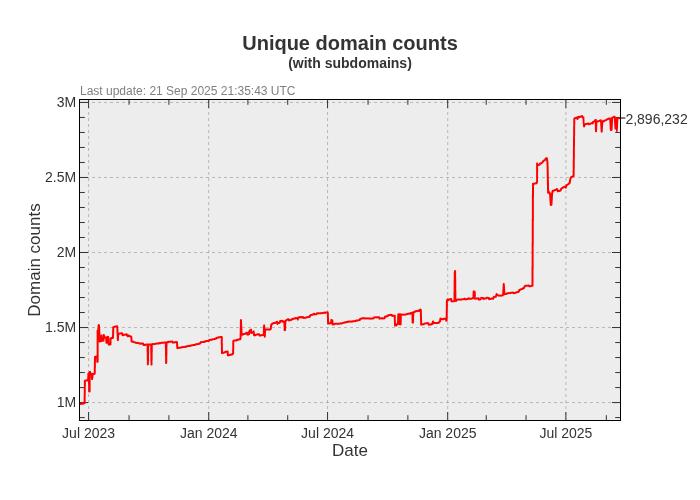
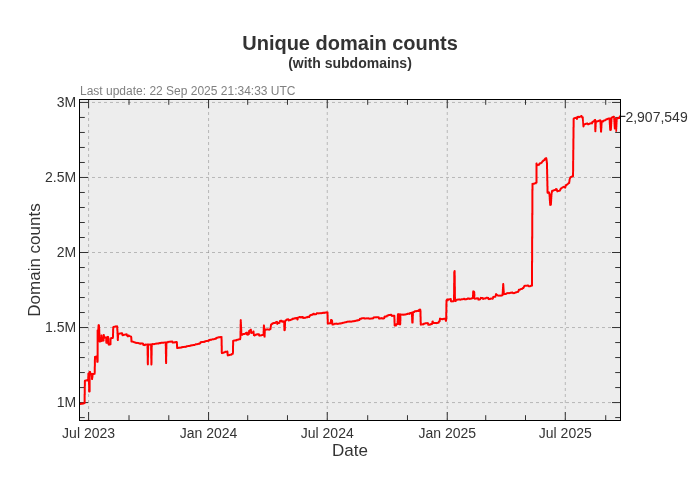
Update pages

diff --git a/README.md b/README.md
@@ -3,22 +3,22 @@ A blocklist file for blocking ads, trackers and malware domains.
 
[1 lines of base64/hex data omitted]
 
-- Unique domains: 2,896,232
-- Without subdomains: 2,220,188
-- Last update: 21 Sep 2025 21:35:43 UTC
-- Version: 2025.09.21.01
+- Unique domains: 2,907,549
+- Without subdomains: 2,224,600
+- Last update: 22 Sep 2025 21:34:33 UTC
+- Version: 2025.09.22.01
 
 
 ### Downloads:
 
 | Format             | Domain count      | Download Link |
 |:------------------ | -----------------:|:-------------:|
-| *Adblock Plus*     | 2,220,188 | [Download](https://dl.cenk.app/bad-hosts/bad-hosts-abp) |
-| *Wildcard domains* | 2,220,188 | [Download](https://dl.cenk.app/bad-hosts/bad-hosts-wildcard) |
-| *dnsmasq*          | 2,220,188 | [Download](https://dl.cenk.app/bad-hosts/bad-hosts-dnsmasq) |
-| *hosts*            | 2,896,232 | [Download](https://dl.cenk.app/bad-hosts/hosts) |
-| *hosts (ipv6)*     | 2,896,232 | [Download](https://dl.cenk.app/bad-hosts/hosts-ipv6) |
-| *Plain domains*    | 2,896,232 | [Download](https://dl.cenk.app/bad-hosts/bad-hosts-domains) |
+| *Adblock Plus*     | 2,224,600 | [Download](https://dl.cenk.app/bad-hosts/bad-hosts-abp) |
+| *Wildcard domains* | 2,224,600 | [Download](https://dl.cenk.app/bad-hosts/bad-hosts-wildcard) |
+| *dnsmasq*          | 2,224,600 | [Download](https://dl.cenk.app/bad-hosts/bad-hosts-dnsmasq) |
+| *hosts*            | 2,907,549 | [Download](https://dl.cenk.app/bad-hosts/hosts) |
+| *hosts (ipv6)*     | 2,907,549 | [Download](https://dl.cenk.app/bad-hosts/hosts-ipv6) |
+| *Plain domains*    | 2,907,549 | [Download](https://dl.cenk.app/bad-hosts/bad-hosts-domains) |
 
 ### Domain count history
 #### With subdomains
